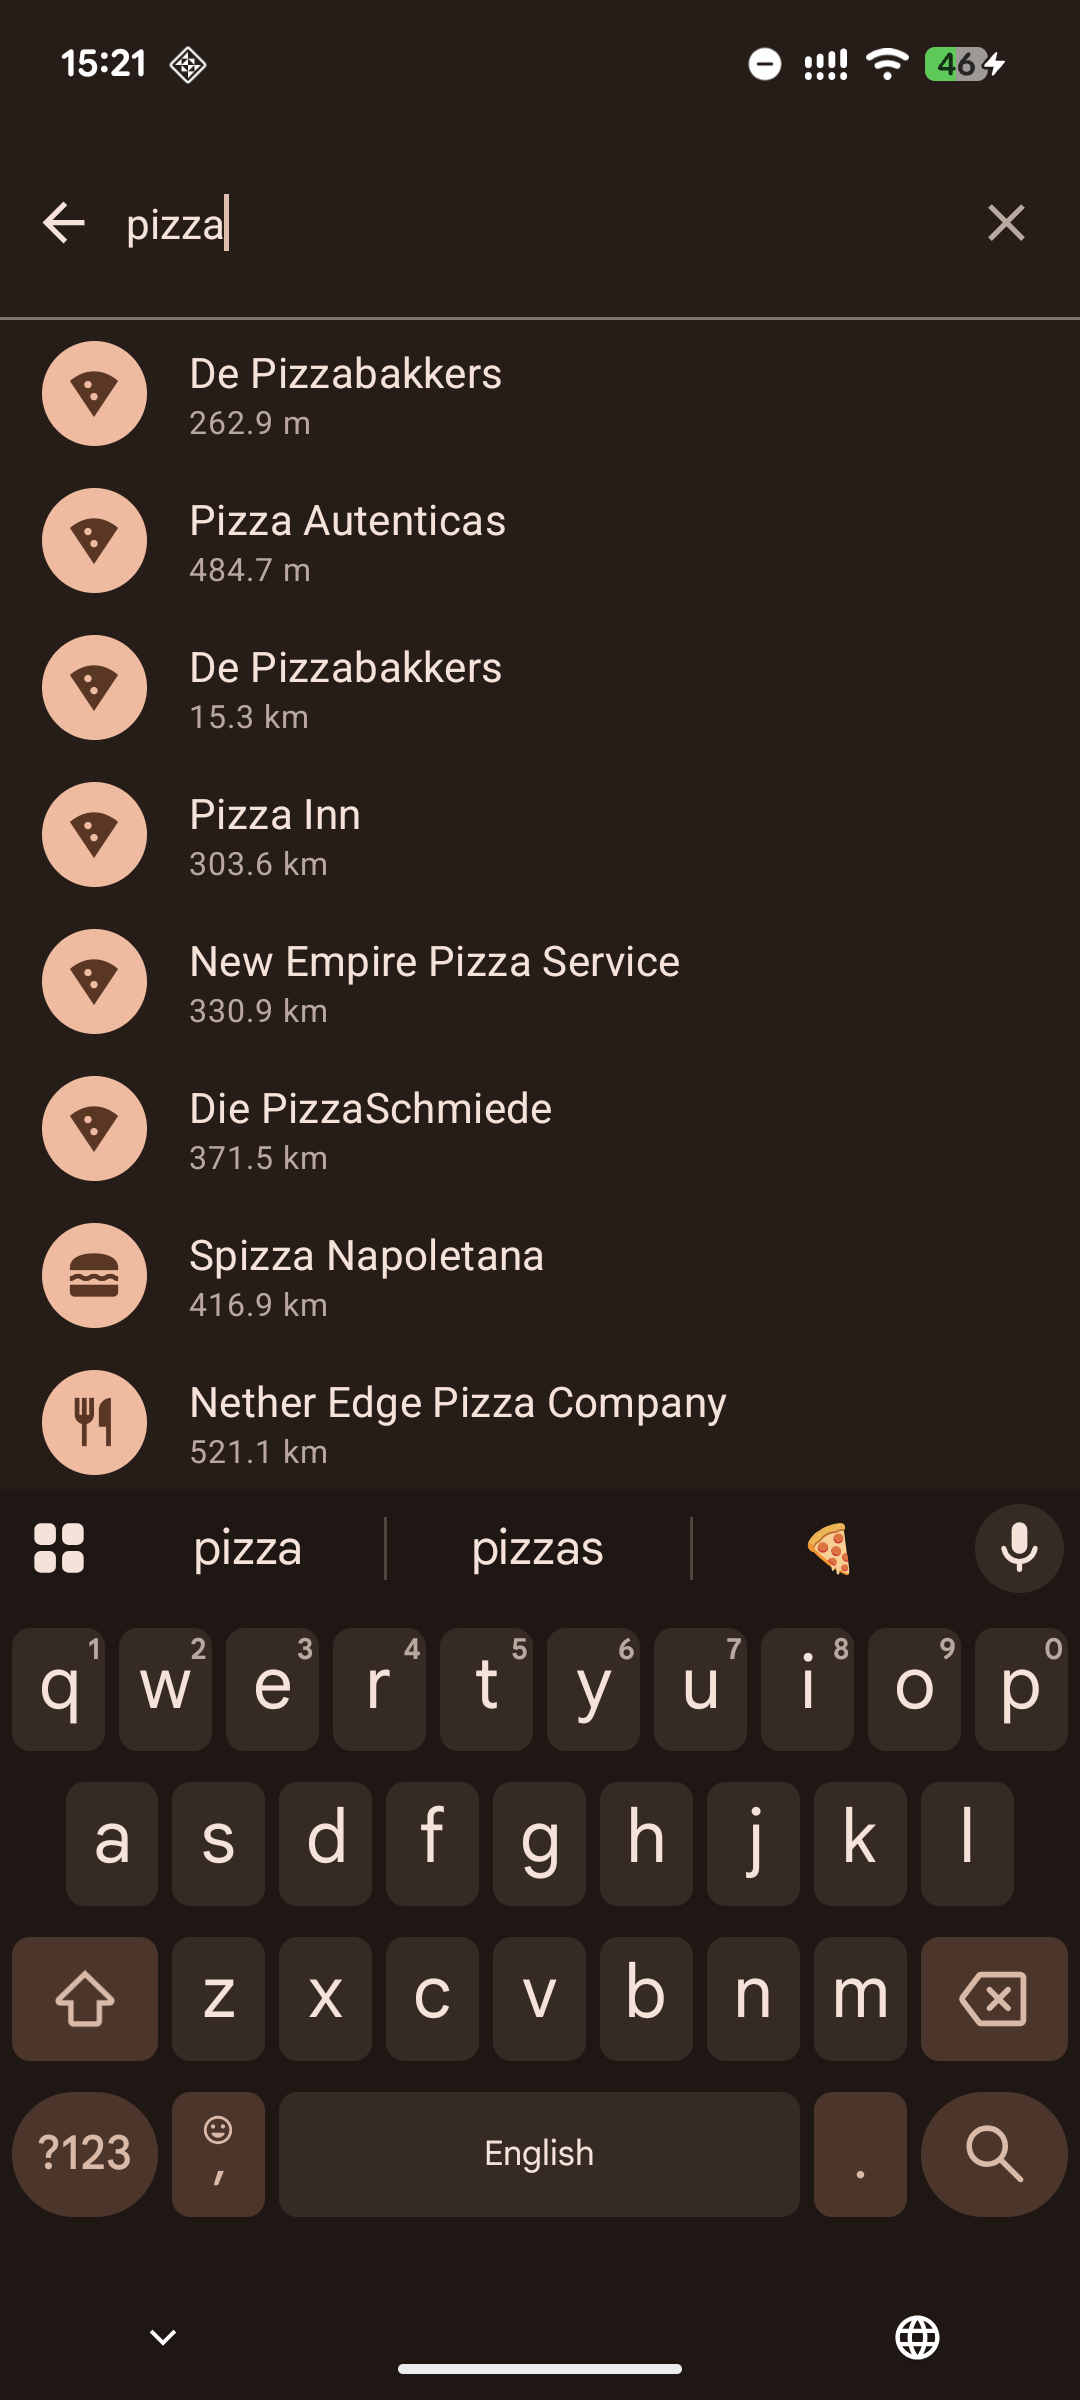
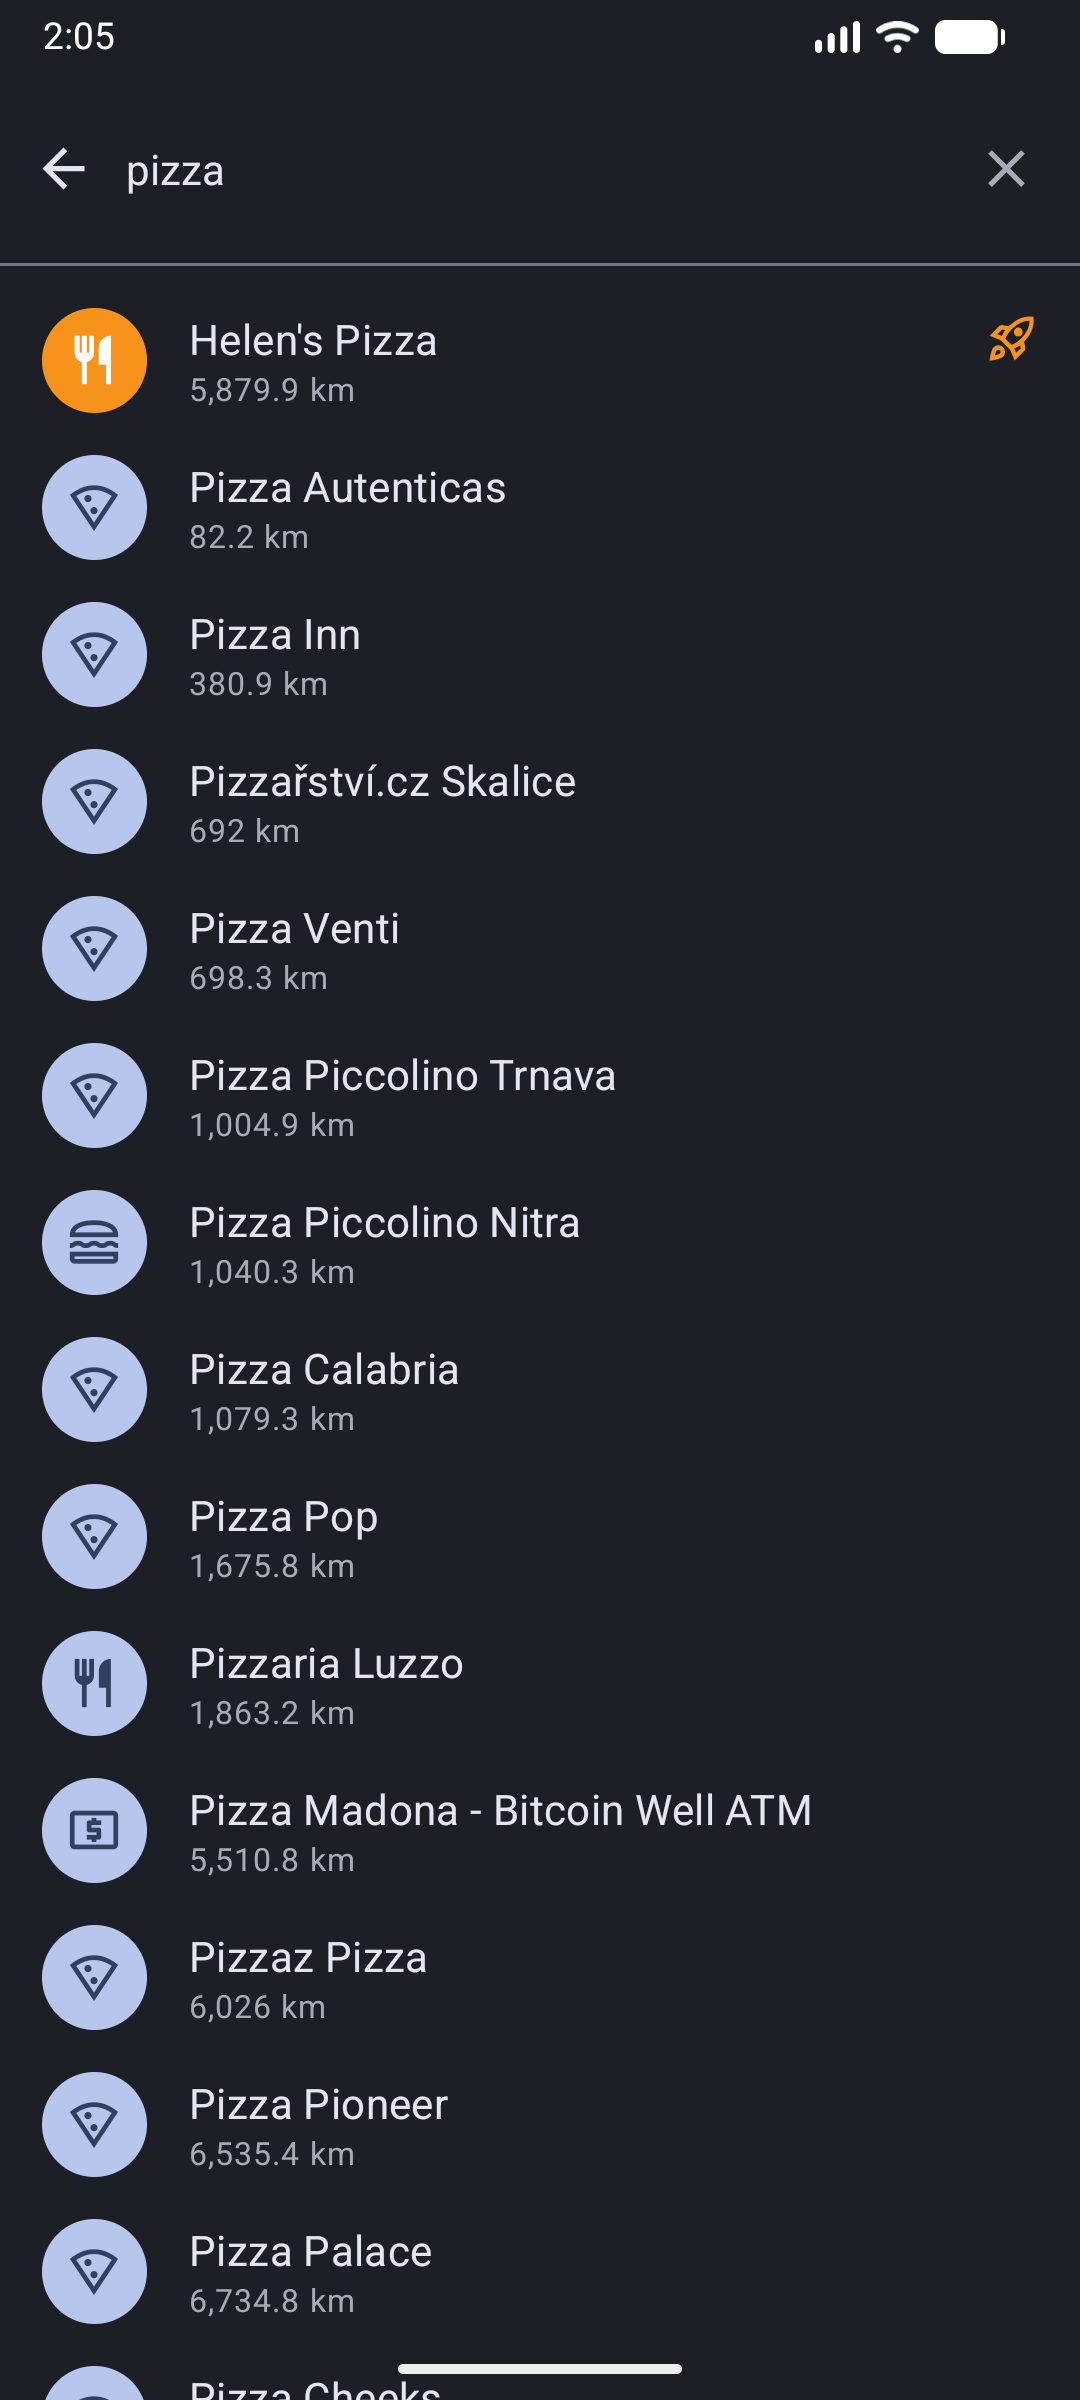
Update fastlane metadata for the 1.2.0 release

diff --git a/README.md b/README.md
@@ -20,6 +20,7 @@
 <img alt="" src="fastlane/metadata/android/en-US/images/phoneScreenshots/2.png" width="204">
 <img alt="" src="fastlane/metadata/android/en-US/images/phoneScreenshots/3.png" width="204">
 <img alt="" src="fastlane/metadata/android/en-US/images/phoneScreenshots/4.png" width="204">
+<img alt="" src="fastlane/metadata/android/en-US/images/phoneScreenshots/5.png" width="204">
 </div>
 
 ## Documentation
